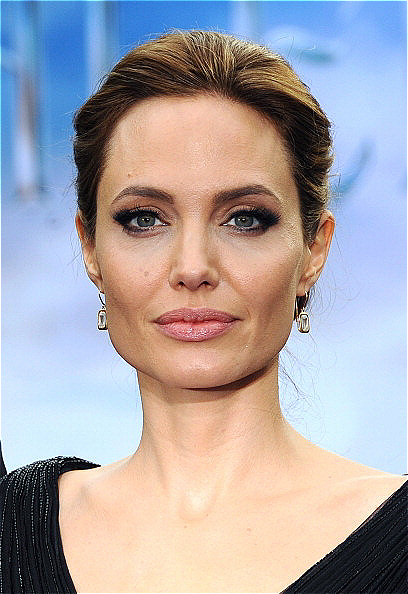
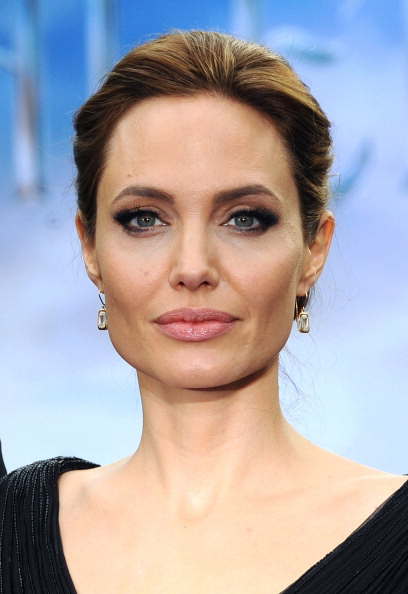
feat: change clarity using kernel

diff --git a/util/adjustment.ts b/util/adjustment.ts
@@ -148,7 +148,6 @@ static async changeAndSaveSharpness(
   if (value < -100 || value > 100) {
     throw new Error("Exposure value must be between -100 and 100");
   }
-  value
   try {
     // Read the input image using Jimp
     const image = await Jimp.read(inputImagePath);
@@ -198,6 +197,60 @@ static async changeAndSaveSharpness(
 }
 
 
+static async changeAndSaveClarity(
+  inputImagePath: string,
+  outputImagePath: string,
+  value: number
+) {
+  if (value < -100 || value > 100) {
+    throw new Error("Exposure value must be between -100 and 100");
+  }
+  value
+  try {
+    // Read the input image using Jimp
+    const image = await Jimp.read(inputImagePath);
+
+    let clarityKernel: number[][];
+    value /= 80
+    if (value === 0) {
+      // If the value is 0, no change to the image
+      clarityKernel = [
+        [0, 0, 0],
+        [0, 1, 0],
+        [0, 0, 0],
+      ];
+    } else if (value > 0) {
+      // If the value is positive, apply clarity
+      clarityKernel = [ 
+        [0 , -0.5, 0 + Math.abs(value) / 5],
+        [-0.5 + Math.abs(value) / 50, 2.9, -0.5  + Math.abs(value) / 50],
+        [0, -0.5, 0]
+    ];
+    } else {
+      // If the value is negative, apply smoothing (blurring)
+      clarityKernel = [
+        [0.1, 0.1, 0.1],
+        [0.1, 0.19 + Math.abs(value) / 50, 0.1],
+        [0.1, 0.1, 0.1]
+      ];
+    }
+
+    // Get the image data as a Buffer
+    let imageData: Buffer = image.bitmap.data;
+
+    // Width and height of the image
+    const width: number = image.bitmap.width;
+    const height: number = image.bitmap.height;
+    // Apply the custom convolution filter to sharpen the image
+    let data = Calculate.convolution(imageData, clarityKernel, width, height);
+    imageData = data
+    image.bitmap.data = imageData
+    await image.writeAsync(outputImagePath);
+    console.log(`Success`);
+  } catch (error) {
+    console.error("Error:", error);
+  }
+}
 
 //fixed
 //using hsv technique value is -100 to 100
@@ -713,49 +766,7 @@ static async changeAndSaveNoise(
   }
 }
 
-static async changeAndSaveClarity(
-  inputImagePath: string,
-  outputImagePath: string,
-  value: number,
-) {
-  if (value < -100 || value > 100) {
-    throw new Error('value value must be between -100 and 100');
-  }
 
-  try {
-    // Read the input image using Jimp
-    const image = await Jimp.read(inputImagePath);
-
-    const adjust = Math.abs(value) * 1.20;
-    for (let x = 0; x < image.bitmap.width; x++) {
-      for (let y = 0; y < image.bitmap.height; y++) {
-        const color = Jimp.intToRGBA(image.getPixelColor(x, y));
-        let { r, g, b, a } = color;
-        // Generate random noise within the specified range for each channel
-        const rand = Calculate.randomRange(adjust * 2 -1, adjust);
-
-        // Apply noise to each color channel
-        r += rand;
-        g += rand;
-        b += rand;
-
-        // Ensure the color values stay within the 0-255 range
-        r = Math.min(255, Math.max(0, r));
-        g = Math.min(255, Math.max(0, g));
-        b = Math.min(255, Math.max(0, b));
-
-        const newColor = Jimp.rgbaToInt(r, g, b, a);
-
-        image.setPixelColor(newColor, x, y);
-      }
-    }
-
-    await image.writeAsync(outputImagePath);
-    console.log(`Success`);
-  } catch (error) {
-    console.error('Error:', error);
-  }
-}
 
 //fixed
 // # ## Clip

diff --git a/main.ts b/main.ts
@@ -1,4 +1,4 @@
 import Adjustment from "./util/adjustment.ts";
 
 
-Adjustment.changeAndSaveSharpness('img10.jpg', 'img10_edited.jpg', 50);
+Adjustment.changeAndSaveClarity('img10.jpg', 'img10_edited.jpg', 0);
